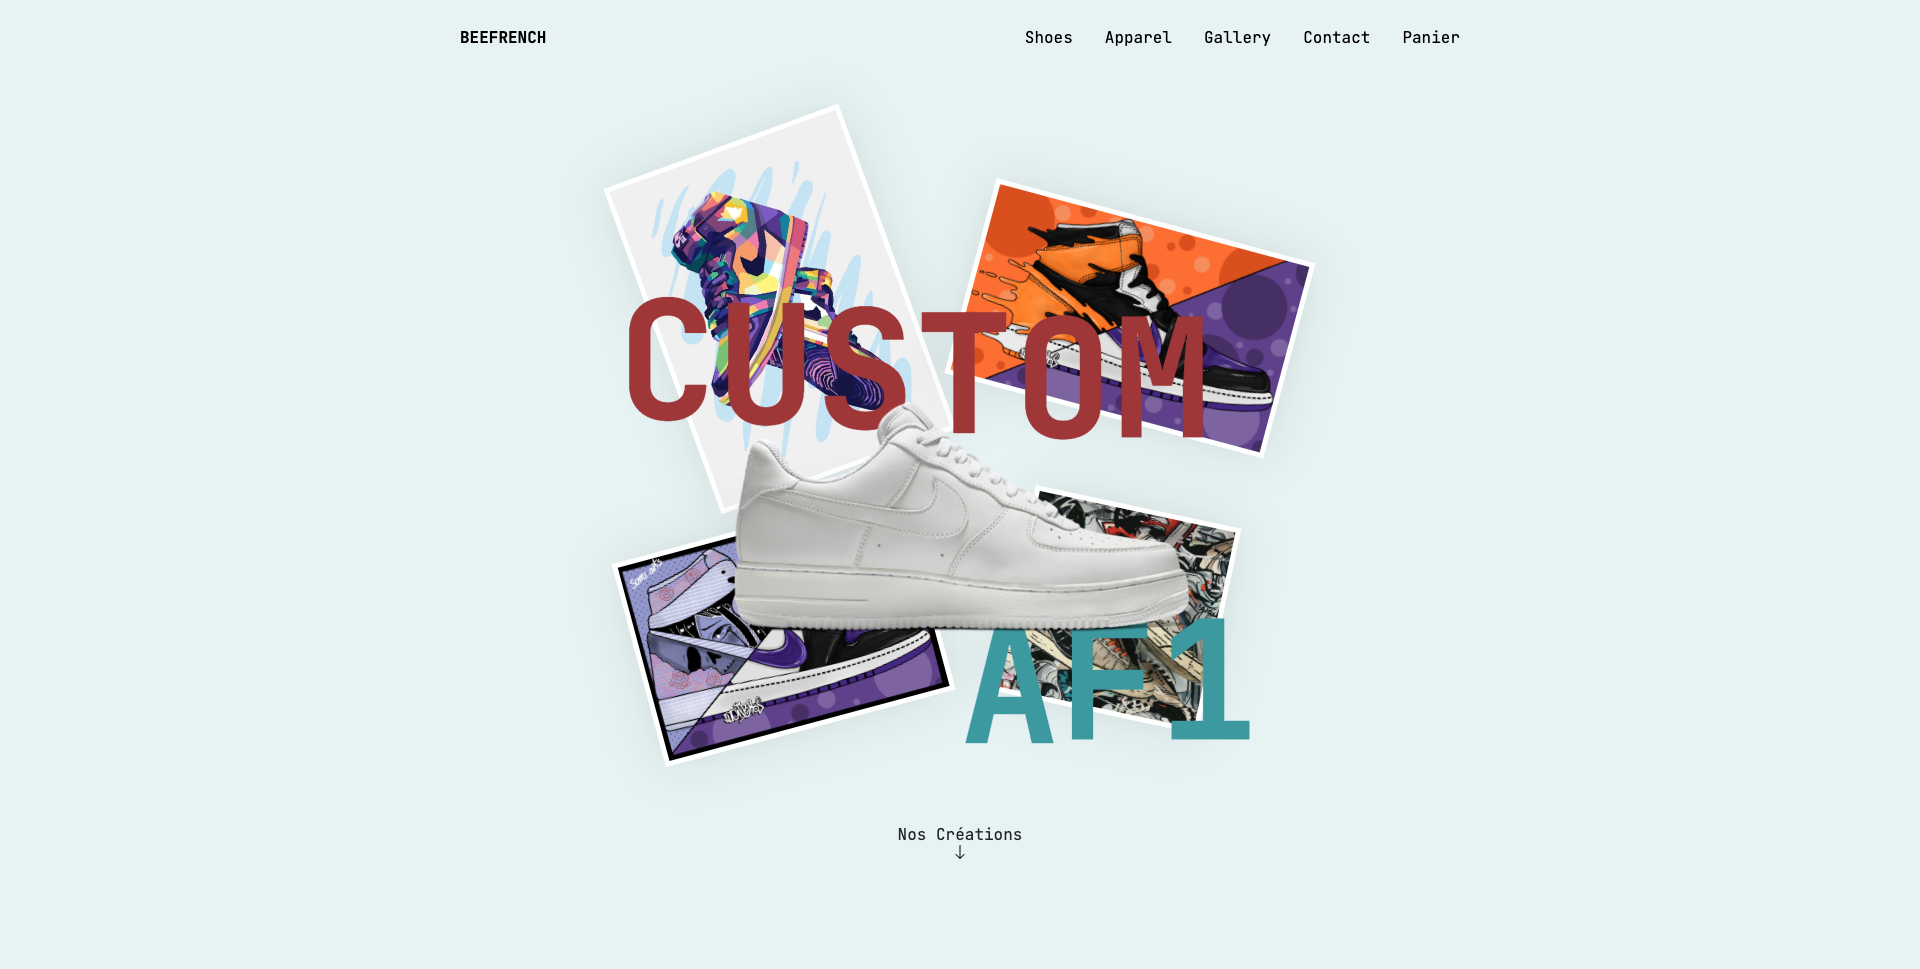
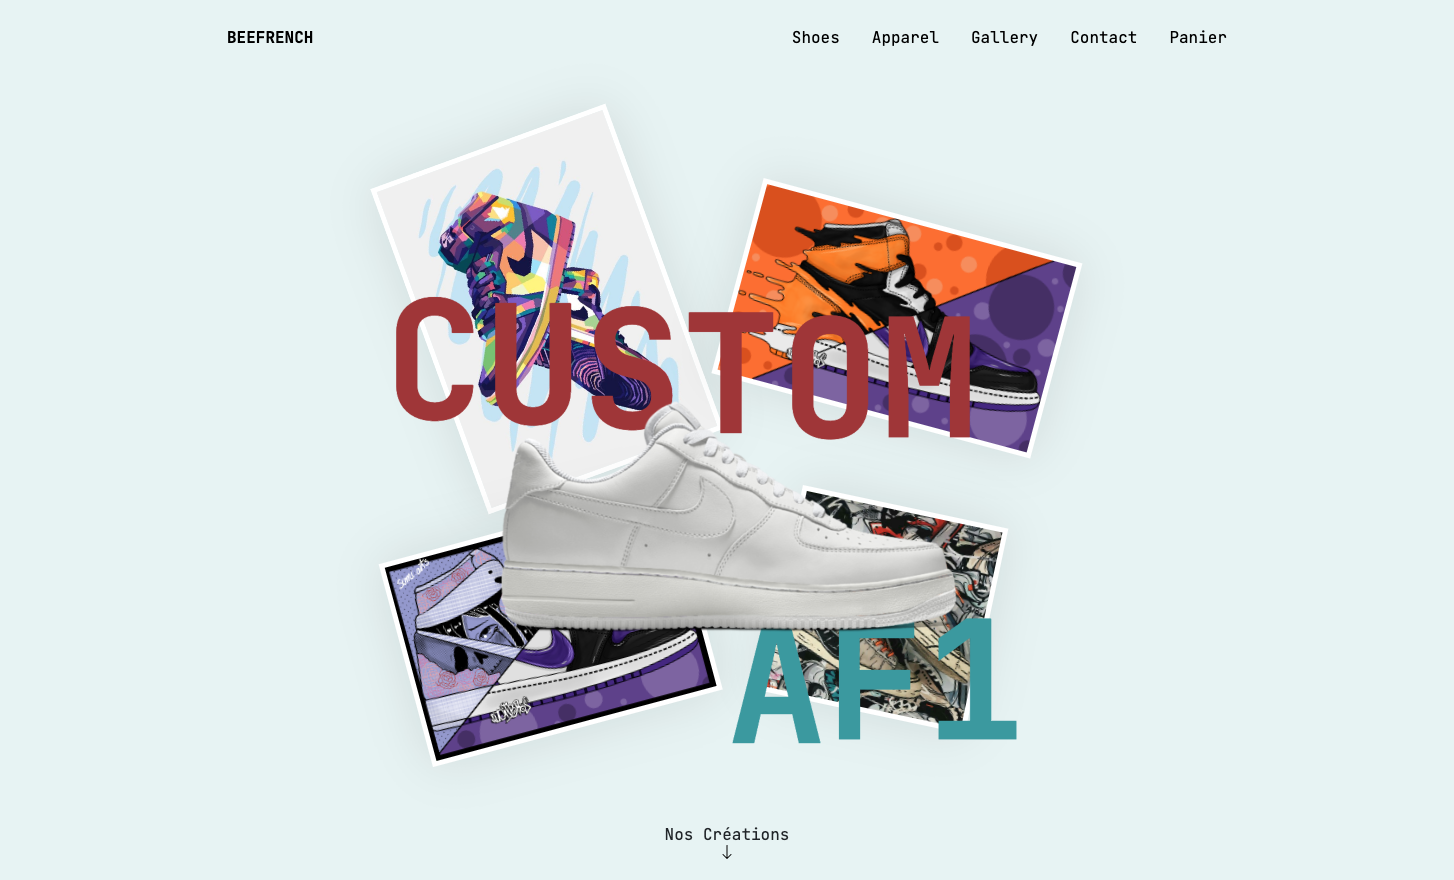
image

diff --git a/assets/css/style.css b/assets/css/style.css
@@ -361,11 +361,11 @@ header .overlay_header .header_droite .home_link {
   color: #efeee5;
 }
 .webdev .cd_webdev_1 {
-  width: 75%;
+  width: 50%;
   object-fit: cover;
 }
 .webdev .cd_webdev_1 img {
-  width: 120%;
+  width: 100%;
 }
 
 /*# sourceMappingURL=style.css.map */

diff --git a/assets/sass/block/_web.scss b/assets/sass/block/_web.scss
@@ -5,10 +5,10 @@
     background-color: $green;
     color: $white;
     .cd_webdev_1{
-        width: 75%;
+        width: 50%;
         object-fit: cover;
         img{
-            width: 120%;
+            width: 100%;
         }
     }
 }
